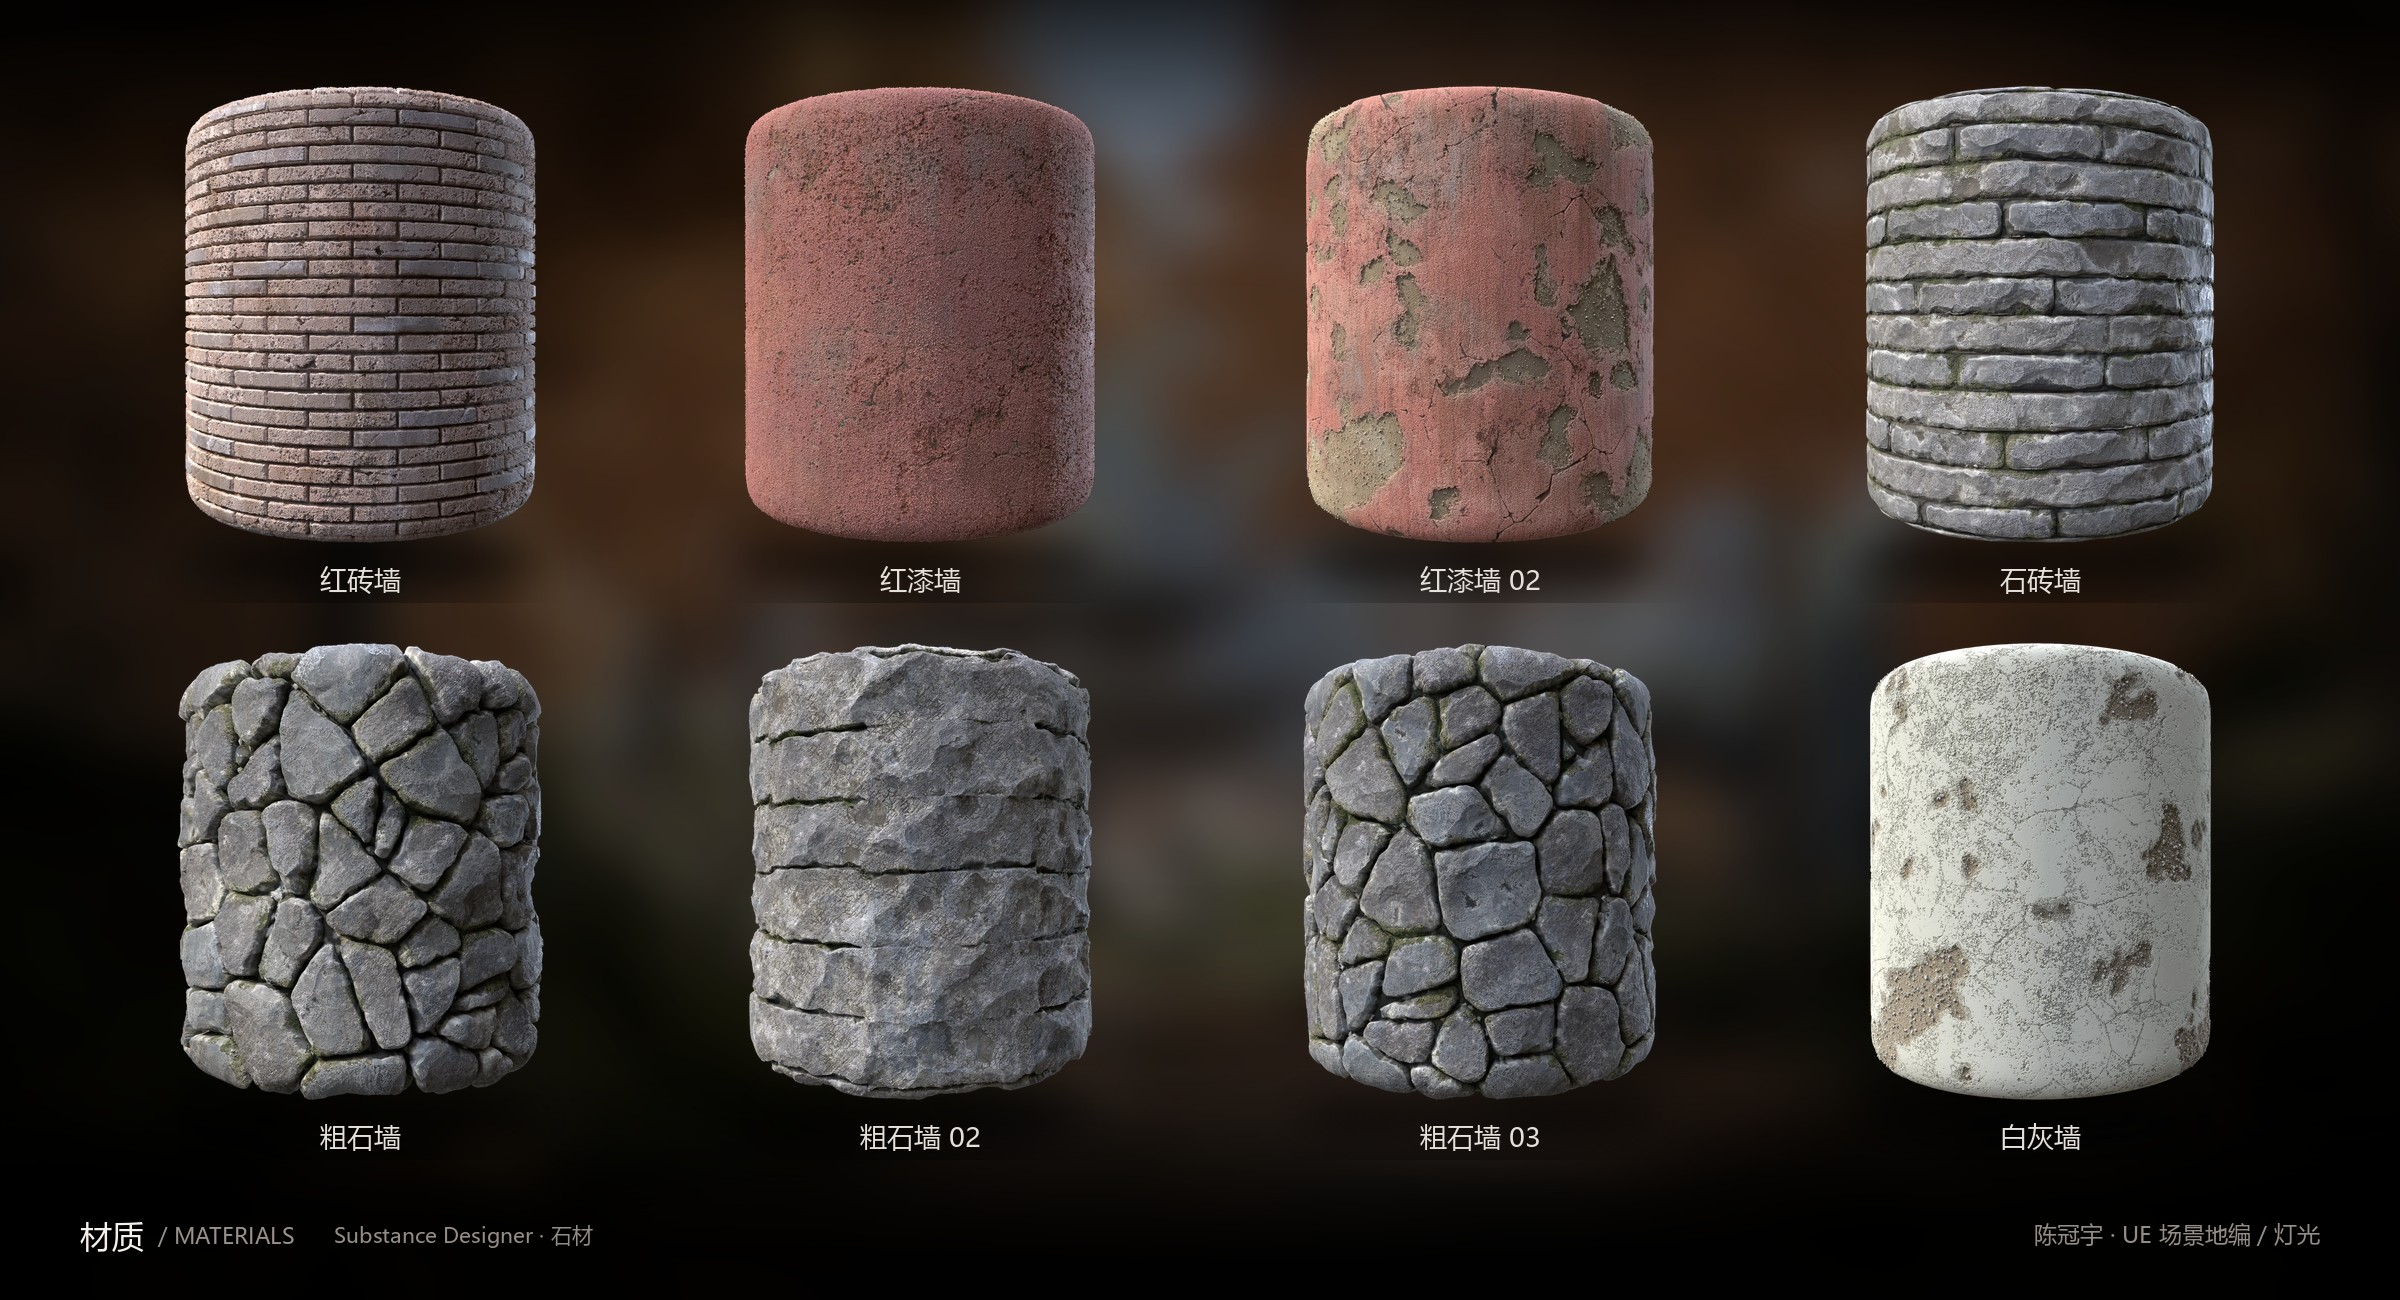
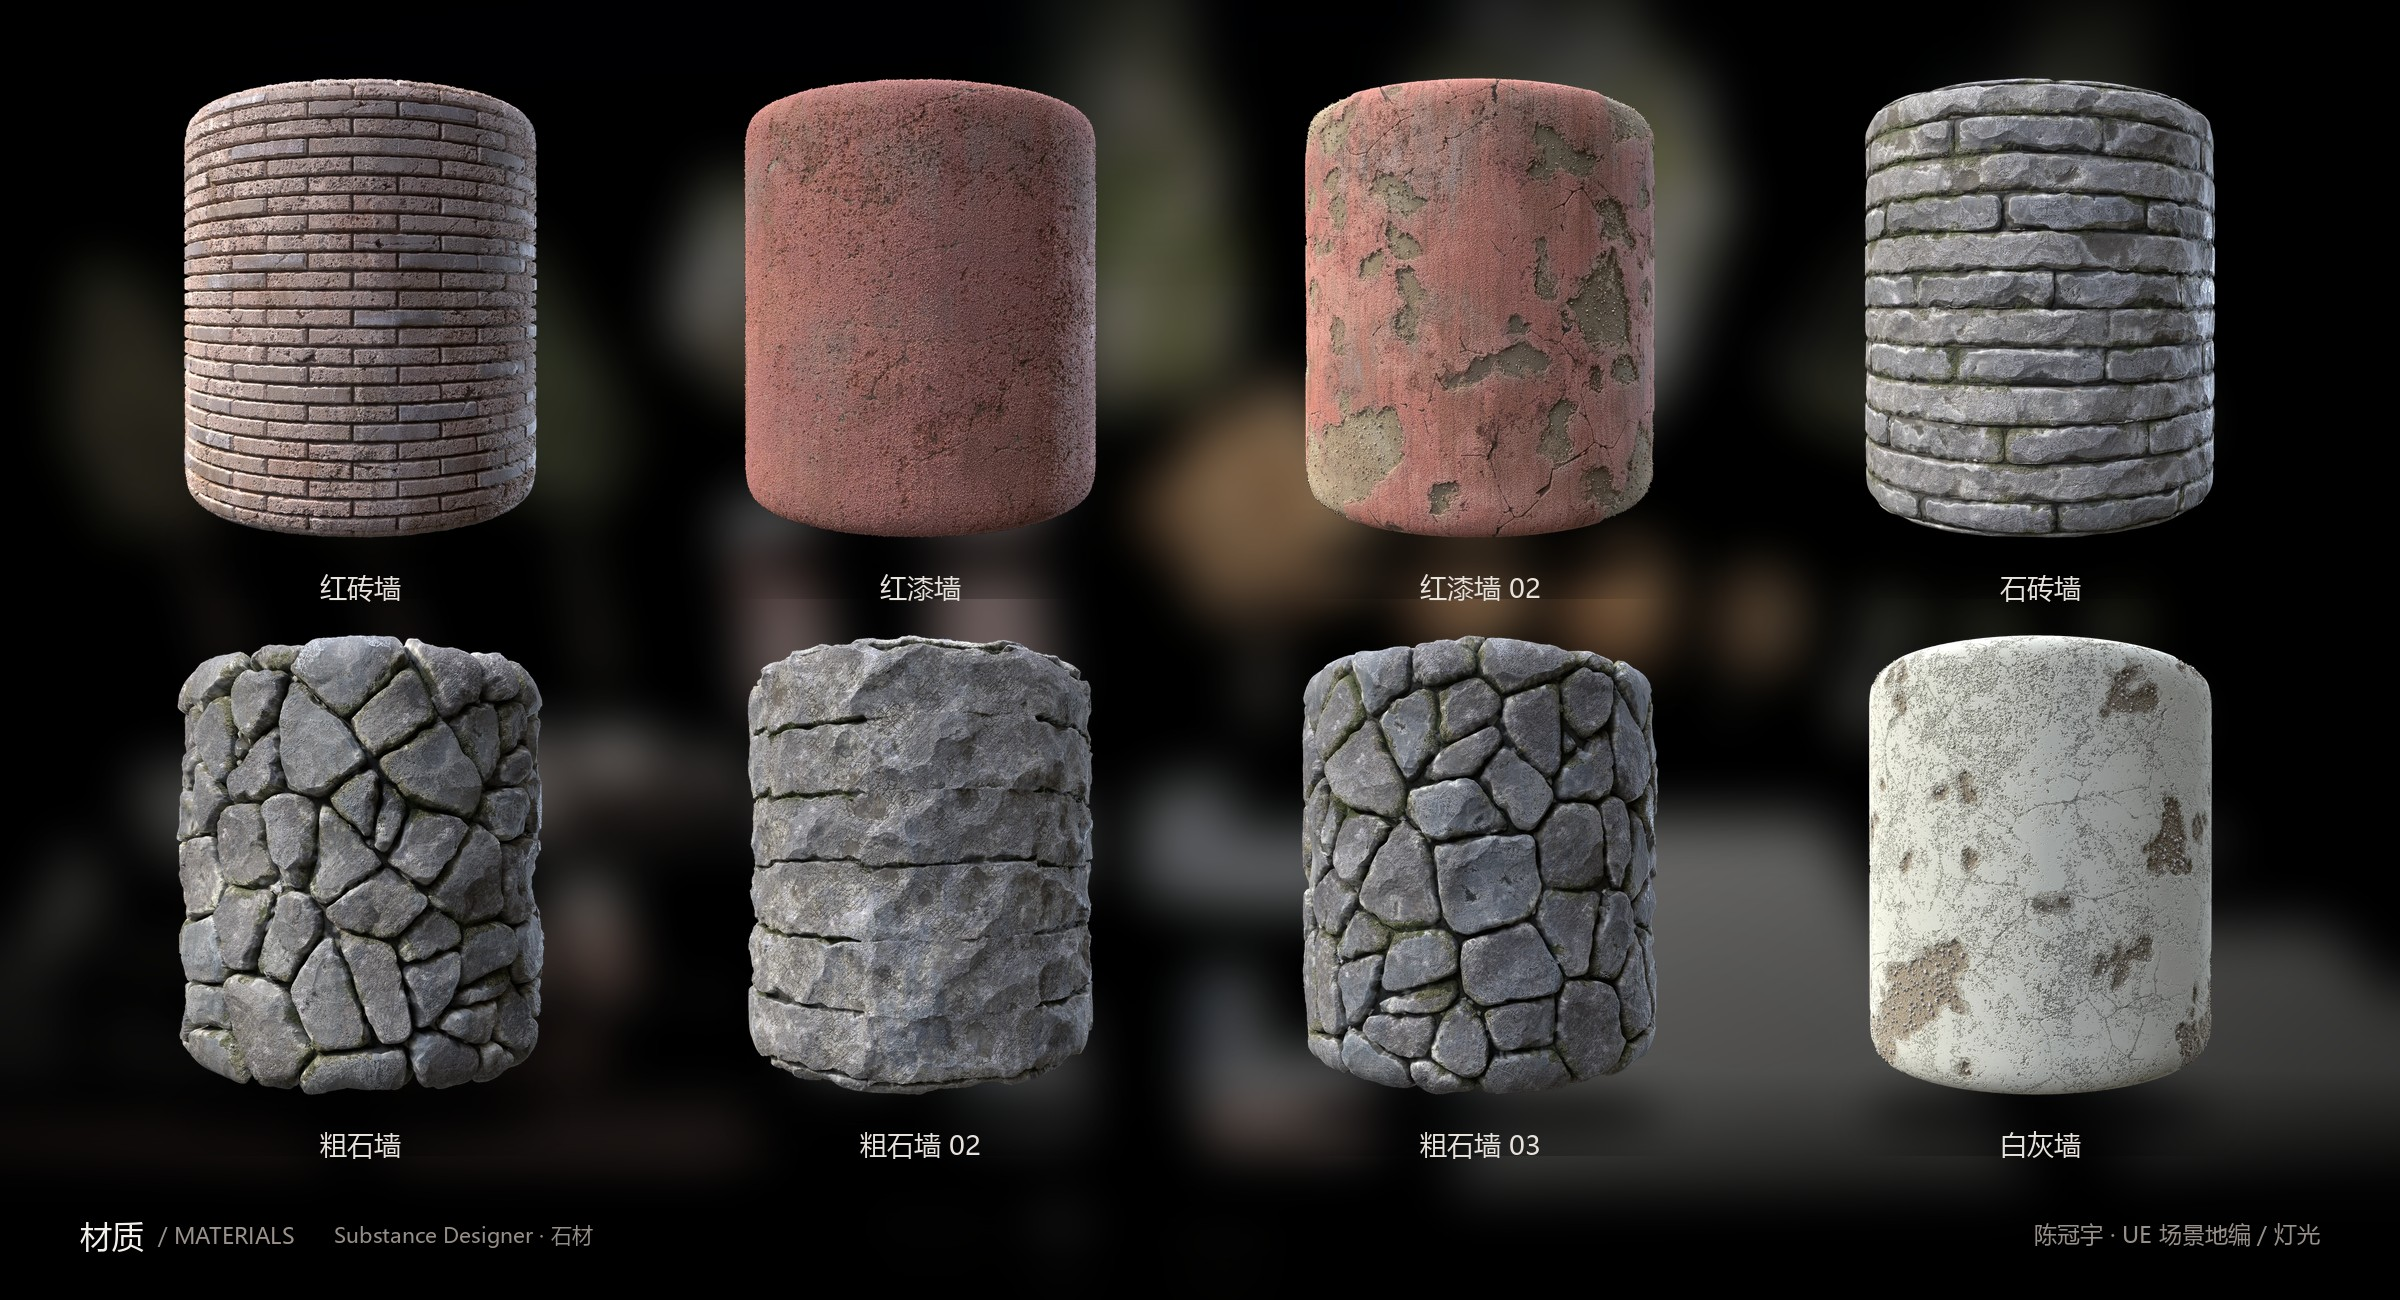
材质 20 组：补窗格 007，8+8+4 三张统一圆柱，三张各用不同背景

diff --git a/resume/index.html b/resume/index.html
@@ -1539,11 +1539,11 @@ body{padding:0 !important; background:#fff !important; display:block !important;
     </div>
   </div>
   <div class="wpage">
-    <div class="ph"><div class="ph-row"><span class="ph-n">05</span><span class="ph-t">材质 / Materials</span><span class="ph-m">程序化材质 · 19 组 · 4K</span></div>
+    <div class="ph"><div class="ph-row"><span class="ph-n">05</span><span class="ph-t">材质 / Materials</span><span class="ph-m">程序化材质 · 20 组 · 4K</span></div>
       <div class="ph-resp">Substance Designer 全节点搭建：砌筑石材、涂装、地面、植被、瓦作与木作，全部 4K 无缝输出，直接进引擎。统一以圆柱体测试，保证各材质在曲面上仍保持细节密度与尺度一致。</div></div>
-    <div class="band matband" style="margin-top:0"><img src="../assets/mat8_1.jpg" alt="材质渲染 · 石材"></div>
-    <div class="band matband"><img src="../assets/mat8_2.jpg" alt="材质渲染 · 地面与自然"></div>
-    <div class="band matband"><img src="../assets/mat8_3.jpg" alt="材质渲染 · 构件"></div>
+    <div class="band matband" style="margin-top:0"><img src="../assets/mat8_1.jpg" alt="材质渲染 · 石材 8 组"></div>
+    <div class="band matband"><img src="../assets/mat8_2.jpg" alt="材质渲染 · 地面与自然 8 组"></div>
+    <div class="band matband"><img src="../assets/mat8_3.jpg" alt="材质渲染 · 构件 4 组"></div>
   </div>
 </div>
 

diff --git a/index.html b/index.html
@@ -269,9 +269,9 @@ footer::before{content:'';position:absolute;left:0;top:0;width:100%;height:3px;b
       <figure class="shot"><img src="assets/kill_04.jpg" data-gallery="g4" data-i="6" loading="lazy" alt="个人作品场景"></figure>
     </div>
     <div class="stack auto nocap">
-      <figure class="shot"><img src="assets/mat8_1.jpg" data-gallery="g4" data-i="7" loading="lazy" alt="材质渲染 · 石材 8 组"></figure>
+      <figure class="shot"><img src="assets/mat8_1.jpg" data-gallery="g4" data-i="7" loading="lazy" alt="材质渲染 · 石材 8 组（红砖/红漆/石砖/粗石×3/白灰）"></figure>
       <figure class="shot"><img src="assets/mat8_2.jpg" data-gallery="g4" data-i="8" loading="lazy" alt="材质渲染 · 地面与自然 8 组"></figure>
-      <figure class="shot"><img src="assets/mat8_3.jpg" data-gallery="g4" data-i="9" loading="lazy" alt="材质渲染 · 构件 3 组"></figure>
+      <figure class="shot"><img src="assets/mat8_3.jpg" data-gallery="g4" data-i="9" loading="lazy" alt="材质渲染 · 构件 4 组（窗格×2/木纹/青瓦）"></figure>
     </div>
   </article>
 
